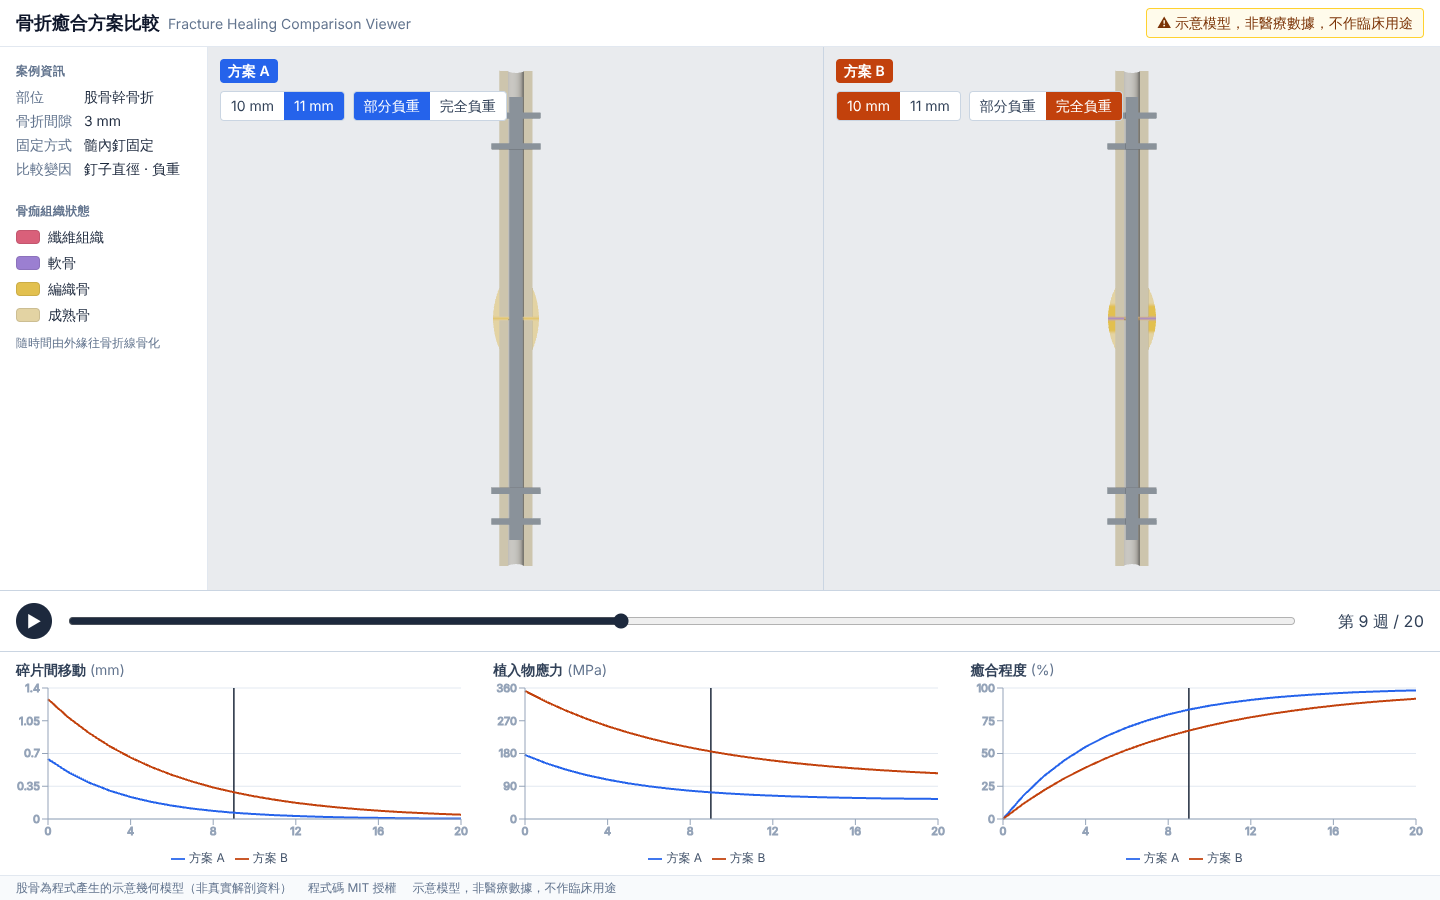
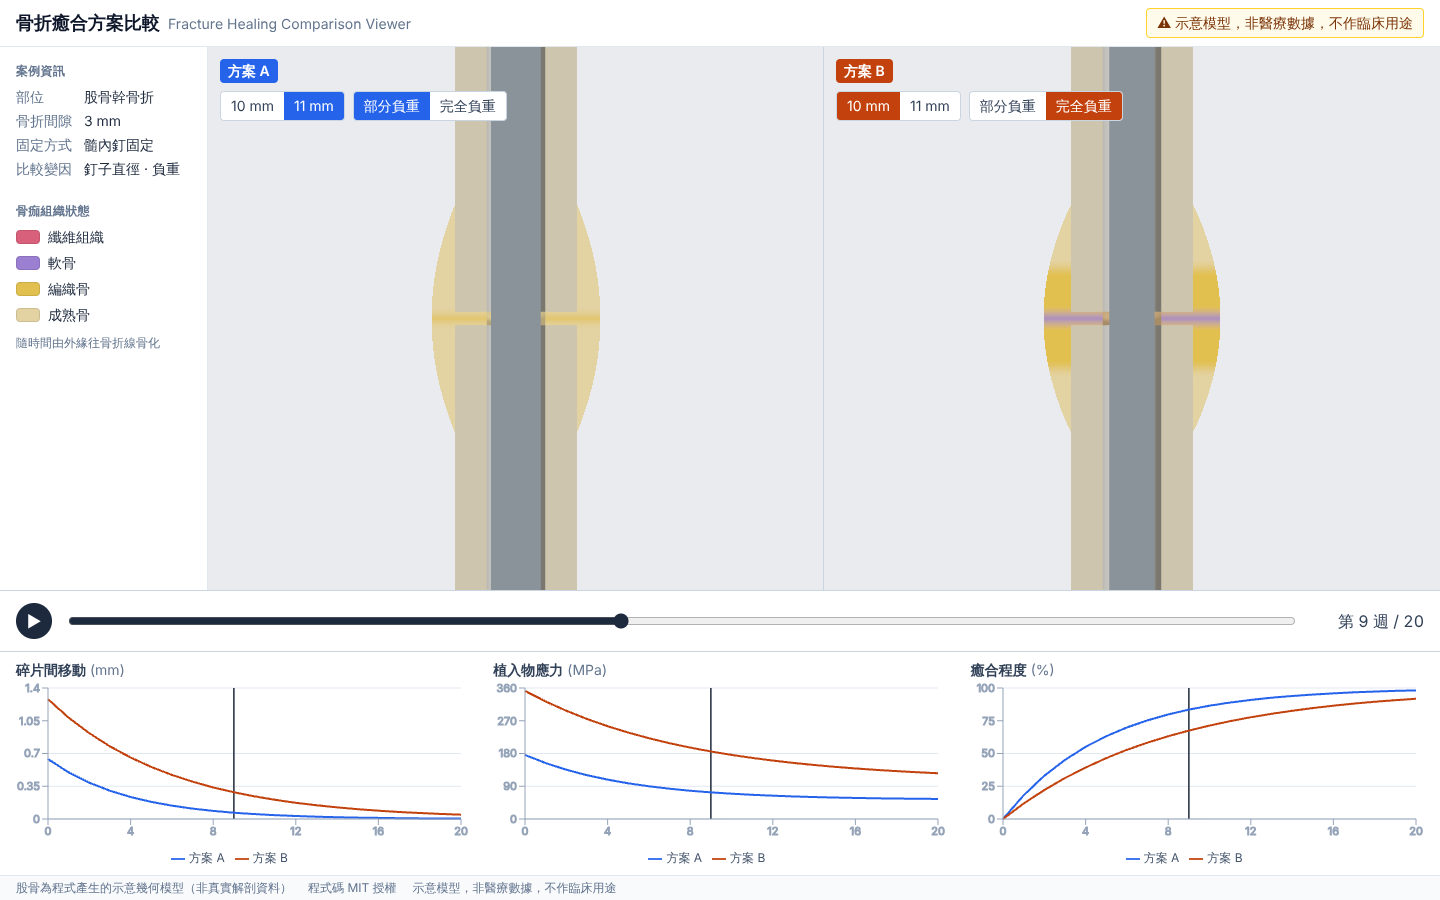
Start the camera close on the fracture
- Initial camera centred on the fracture line, framing +/-60 mm;
  distance derived from the field of view (ADR 0017)
- README screenshots: default close-up and zoomed-out nail view
- Tests for the framing maths; LEARNING entry

Claude-Session: https://claude.ai/code/session_017gS4aW9fUXco5aUEQ7DoU9

Changed region(s): [[0.7188, 0.0311, 0.875, 0.6533], [0.2812, 0.0311, 0.4375, 0.6533]]

diff --git a/src/store/cameraPose.ts b/src/store/cameraPose.ts
@@ -9,8 +9,25 @@ export interface CameraPose {
   version: number // bumps on every real change, so views know to follow
 }
 
-// Looking at the coronal cut from the front; the whole femur fits.
-export const INITIAL_CAMERA: CameraPose = { position: [0, 0, 700], target: [0, 0, 0], version: 0 }
+export const CAMERA_FOV_DEG = 35 // vertical field of view
+
+// Distance at which a perspective camera shows `halfHeightMm` above and below
+// its target: tan(fov / 2) = halfHeight / distance.
+export function framingDistance(halfHeightMm: number, fovDeg = CAMERA_FOV_DEG): number {
+  return halfHeightMm / Math.tan(((fovDeg / 2) * Math.PI) / 180)
+}
+
+// Owner: start close on the fracture. Show 60 mm above and below the
+// fracture line: the whole callus (+/-25 mm) with room for its bulge and
+// some intact bone. Zoom out with the mouse wheel to see the whole femur.
+export const INITIAL_FRAME_HALF_HEIGHT_MM = 60
+
+// Looking at the coronal cut from the front, centred on the fracture line.
+export const INITIAL_CAMERA: CameraPose = {
+  position: [0, 0, framingDistance(INITIAL_FRAME_HALF_HEIGHT_MM)],
+  target: [0, 0, 0],
+  version: 0,
+}
 
 const EPSILON = 1e-4
 const same = (a: Vec3, b: Vec3) => a.every((v, i) => Math.abs(v - b[i]) < EPSILON)

diff --git a/src/store/cameraPose.test.ts b/src/store/cameraPose.test.ts
@@ -1,5 +1,6 @@
 import { beforeEach, describe, expect, it } from 'vitest'
-import { INITIAL_CAMERA, nextCameraPose } from './cameraPose'
+import { CALLUS } from '../scene/callusModel'
+import { CAMERA_FOV_DEG, INITIAL_CAMERA, framingDistance, nextCameraPose } from './cameraPose'
 import { useViewerStore } from './useViewerStore'
 
 describe('shared camera pose', () => {
@@ -29,5 +30,19 @@ describe('shared camera pose', () => {
       setCamera([100, 50, 600], [0, 10, 0])
       expect(useViewerStore.getState().camera.version).toBe(1)
     })
+  })
+})
+
+describe('initial framing', () => {
+  it('distance shows exactly the requested half height', () => {
+    const d = framingDistance(60)
+    expect(d * Math.tan(((CAMERA_FOV_DEG / 2) * Math.PI) / 180)).toBeCloseTo(60)
+  })
+
+  it('starts on the fracture line, close enough to see the whole callus large', () => {
+    expect(INITIAL_CAMERA.target).toEqual([0, 0, 0])
+    const halfHeight = INITIAL_CAMERA.position[2] * Math.tan(((CAMERA_FOV_DEG / 2) * Math.PI) / 180)
+    expect(halfHeight).toBeGreaterThan(CALLUS.halfLengthMm)
+    expect(halfHeight).toBeLessThan(100) // far less than the 400 mm femur
   })
 })

diff --git a/src/scene/SyncedControls.tsx b/src/scene/SyncedControls.tsx
@@ -1,7 +1,7 @@
 import { OrbitControls, PerspectiveCamera } from '@react-three/drei'
 import { useFrame, useThree } from '@react-three/fiber'
 import { useRef, type ComponentRef } from 'react'
-import { INITIAL_CAMERA, type Vec3 } from '../store/cameraPose'
+import { CAMERA_FOV_DEG, INITIAL_CAMERA, type Vec3 } from '../store/cameraPose'
 import { useViewerStore } from '../store/useViewerStore'
 
 // Camera + orbit controls for one view, kept in sync with the other view
@@ -33,7 +33,7 @@ export function SyncedControls({ domElement }: { domElement: HTMLElement }) {
       <PerspectiveCamera
         makeDefault
         position={INITIAL_CAMERA.position}
-        fov={35}
+        fov={CAMERA_FOV_DEG}
         near={1}
         far={5000}
       />

diff --git a/docs/LEARNING.md b/docs/LEARNING.md
@@ -308,3 +308,20 @@
 1. Which licence applies to the code, and which would apply to a modified BodyParts3D femur?
 2. Name three technical decisions from the README table and the reason for each.
 3. Why does the README say the femur is a placeholder?
+
+## Follow-up: camera starts close on the fracture
+
+### What was built
+
+- The default camera is centred on the fracture line and frames ±60 mm, so the callus fills the view (ADR 0017). Zoom out with the wheel to see the nail and screws.
+- README screenshots updated: default close-up, and a zoomed-out view with the nail and screws.
+
+### Key concepts in plain language
+
+- **Framing with trigonometry.** A camera with a 35° vertical field of view sees `2 · distance · tan(17.5°)` of height at the target. Solving for distance gives where to put the camera to show a chosen height.
+
+### Quiz
+
+1. How far is the camera from the fracture at start, and how is that number computed?
+2. What do you do to see the locking screws, and why do both views follow?
+3. If the field of view became 50°, would the callus still be framed the same? Why?

diff --git a/docs/adr/0017-initial-camera-on-fracture.md b/docs/adr/0017-initial-camera-on-fracture.md
@@ -1,0 +1,16 @@
+# 0017 Initial camera framed on the fracture
+
+Date: 2026-10-09 · Status: accepted (owner request: "鏡頭拉近到骨折處")
+
+## Context
+
+The first camera showed the whole 400 mm femur. At 1280 px each view is about 540 px wide, so the 50 mm callus, the part that changes over time, was only a small blob.
+
+## Decision
+
+Start centred on the fracture line, framing 60 mm above and below it: the whole callus (±25 mm) plus some intact bone. The distance is computed, not guessed: `distance = halfHeight / tan(fov / 2)` = 60 / tan(17.5°) ≈ 190 mm (`framingDistance` in `src/store/cameraPose.ts`).
+
+## Consequences
+
+- The locking screws (±140–165 mm) are off screen at start; zooming out with the mouse wheel shows them, in both views together.
+- If the field of view changes, the framing still holds because the distance is derived from it.

diff --git a/README.md b/README.md
@@ -6,9 +6,9 @@ Browser-based 3D viewer comparing two fixation scenarios for the same femoral sh
 
 **Demo:** _URL added after the Vercel project is connected (see [docs/DEPLOY.md](docs/DEPLOY.md))._
 
-![Overview: two cross-section views, timeline and three metric charts](docs/screenshots/overview.png)
+![Default view at week 9: close-up of the fracture. Scenario A has mostly ossified; scenario B (delayed) still shows cartilage at the fracture line](docs/screenshots/overview.png)
 
-![Close-up at week 9: scenario A has mostly ossified, scenario B still shows cartilage at the fracture line](docs/screenshots/callus-closeup.png)
+![Zoomed out with the mouse wheel: the intramedullary nail with its four locking screws](docs/screenshots/whole-femur.png)
 
 ## What it does
 
